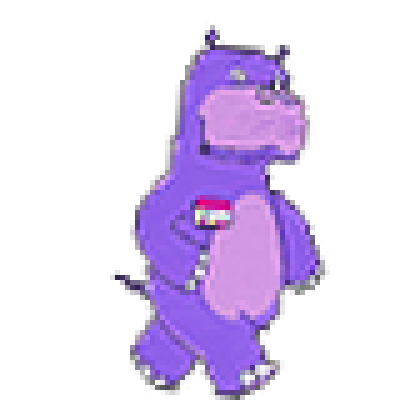
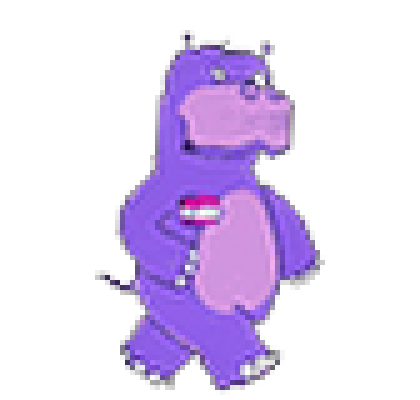
Jump frame sized to match idle/walk

Changed region(s): [[0.2167, 0.06, 0.7738, 1.0]]

diff --git a/index.html b/index.html
@@ -645,7 +645,7 @@ function drawPlayer() {
     sheetFrame(IMG.heroJump, 0, 420, dx, dy, dw, dh, p.facing < 0);
     ctx.restore();
   } else if (Math.abs(p.vx) > 20) {
-    sheetFrame(IMG.heroWalk, Math.floor(p.animT*11) % 6, 420, dx, dy, dw, dh, p.facing < 0);
+    sheetFrame(IMG.heroWalk, Math.floor(p.animT*8) % 6, 420, dx, dy, dw, dh, p.facing < 0);
   } else {
     sheetFrame(IMG.heroIdle, Math.floor(p.animT*2) % 2, 420, dx, dy, dw, dh, p.facing < 0);
   }